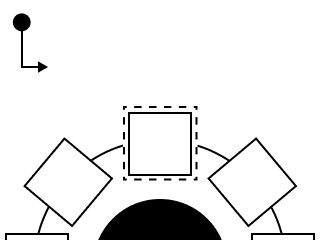
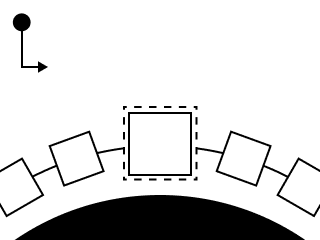
redesign

Changed region(s): [[0.0, 0.525, 1.0, 1.0], [0.9062, 0.8458, 1.0, 0.9042], [0.0, 0.8458, 0.0938, 0.9042]]

diff --git a/radio.py b/radio.py
@@ -573,27 +573,33 @@ def display_everything(name, update=False, readied=False):
         image.paste(logo, (130,114))
         if name in favorites:
             image.paste(star_60, (130,114), star_60)
-        if name not in reruns:
-            image.paste(selector_live_overlay, (0,0), selector_live_overlay)
+        #if name not in reruns:
+            #image.paste(selector_live_overlay, (0,0), selector_live_overlay)
 
         # prev and next
-        prev = streams[prev_stream]['logo_60'].rotate(50, expand=True)
-        next = streams[next_stream]['logo_60'].rotate(-50, expand=True)
+        prev = streams[prev_stream]['logo_40'].rotate(20, expand=True)
+        next = streams[next_stream]['logo_40'].rotate(-20, expand=True)
 
-        image.paste(prev, (26,140), prev)
-        image.paste(next, (210, 140), next)
+        image.paste(prev, (51,133), prev)
+        image.paste(next, (218, 133), next)
         if prev_stream in favorites:
-            prev_star_60 = star_60.copy().rotate(50, expand=True)
-            image.paste(prev_star_60, (26, 140), prev_star_60)
+            prev_star_40 = star_40.copy().rotate(20, expand=True)
+            image.paste(prev_star_40, (51, 133), prev_star_40)
         if next_stream in favorites:
-            next_star_60 = star_60.copy().rotate(-50, expand=True)
-            image.paste(next_star_60, (210, 140), next_star_60)
+            next_star_40 = star_40.copy().rotate(-20, expand=True)
+            image.paste(next_star_40, (218, 133), next_star_40)
 
         # double prev and next
-        double_prev = streams[double_prev_stream]['logo_60'].rotate(90, expand=True)
-        double_next = streams[double_next_stream]['logo_60'].rotate(-90, expand=True)
-        image.paste(double_prev, (7,235))
-        image.paste(double_next, (253, 235))
+        double_prev = streams[double_prev_stream]['logo_40'].rotate(30, expand=True)
+        double_next = streams[double_next_stream]['logo_40'].rotate(-30, expand=True)
+        image.paste(double_prev, (-13,160))
+        image.paste(double_next, (279, 160))
+        if prev_stream in favorites:
+            prev_star_40 = star_40.copy().rotate(30, expand=True)
+            image.paste(prev_star_40, (-13, 160), prev_star_40)
+        if next_stream in favorites:
+            next_star_40 = star_40.copy().rotate(-30, expand=True)
+            image.paste(next_star_40, (279, 160), next_star_40)
 
         safe_display(image) # display 
     
@@ -670,6 +676,8 @@ def display_one(name):
 
     # wifi    
     display_wifi(image)
+
+
 
     safe_display(image)
 
